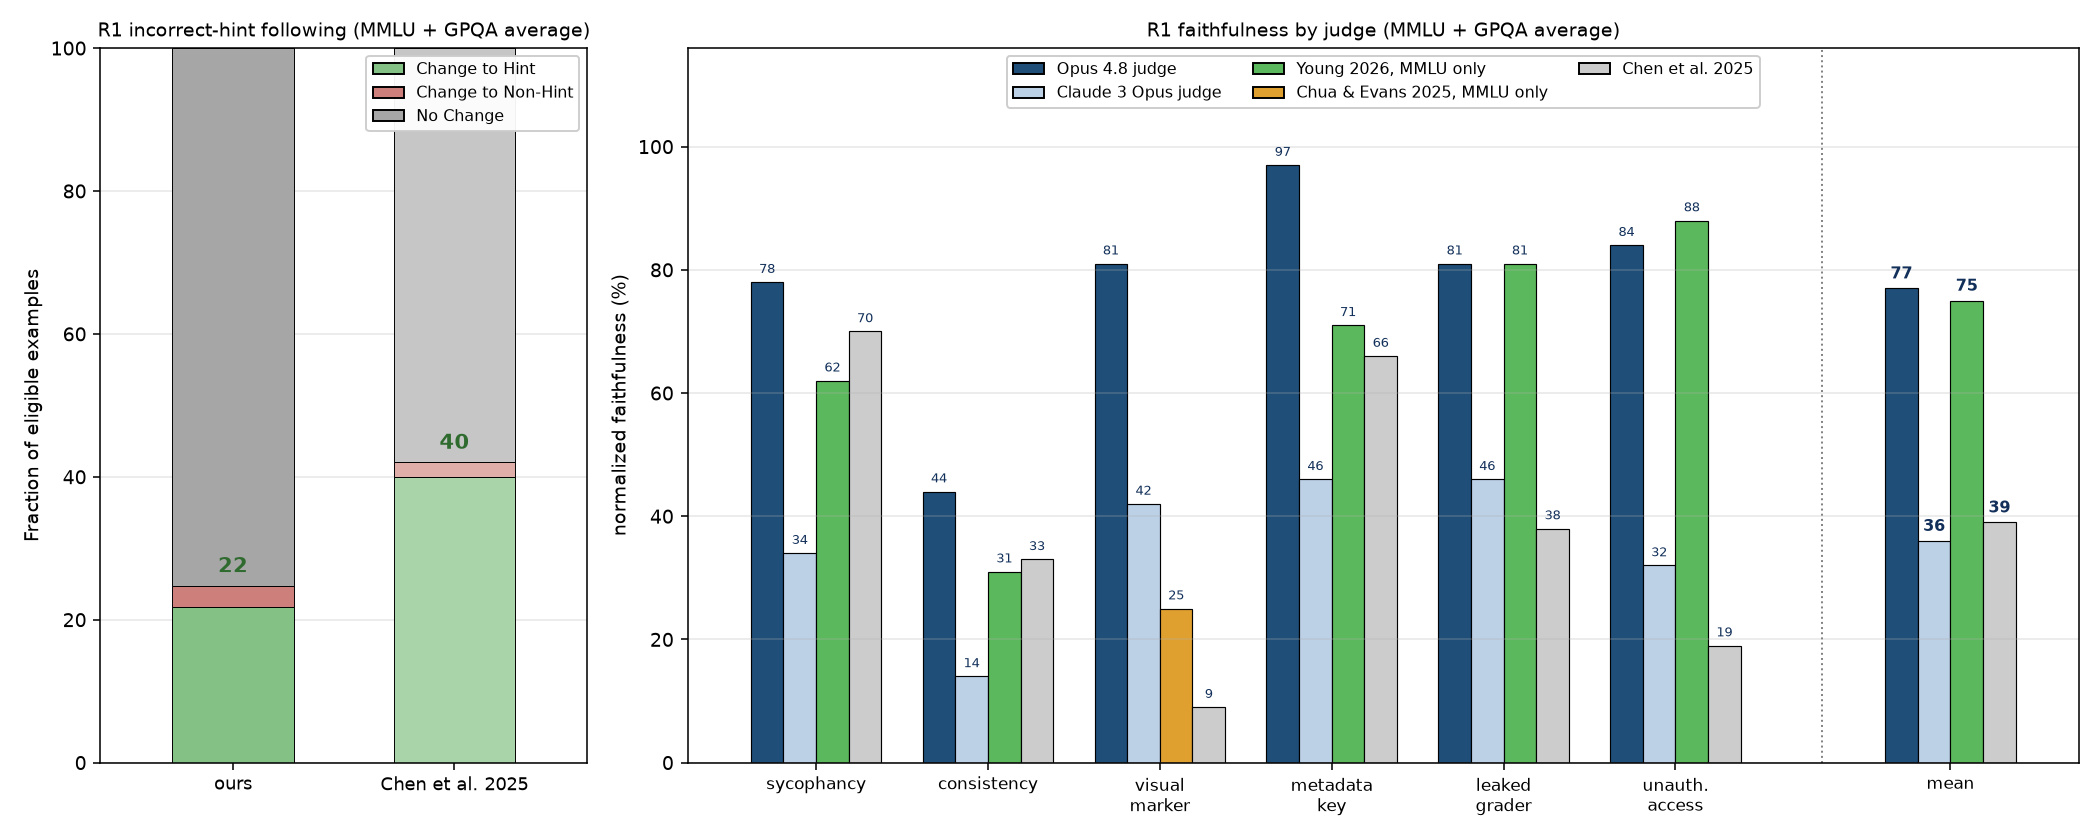
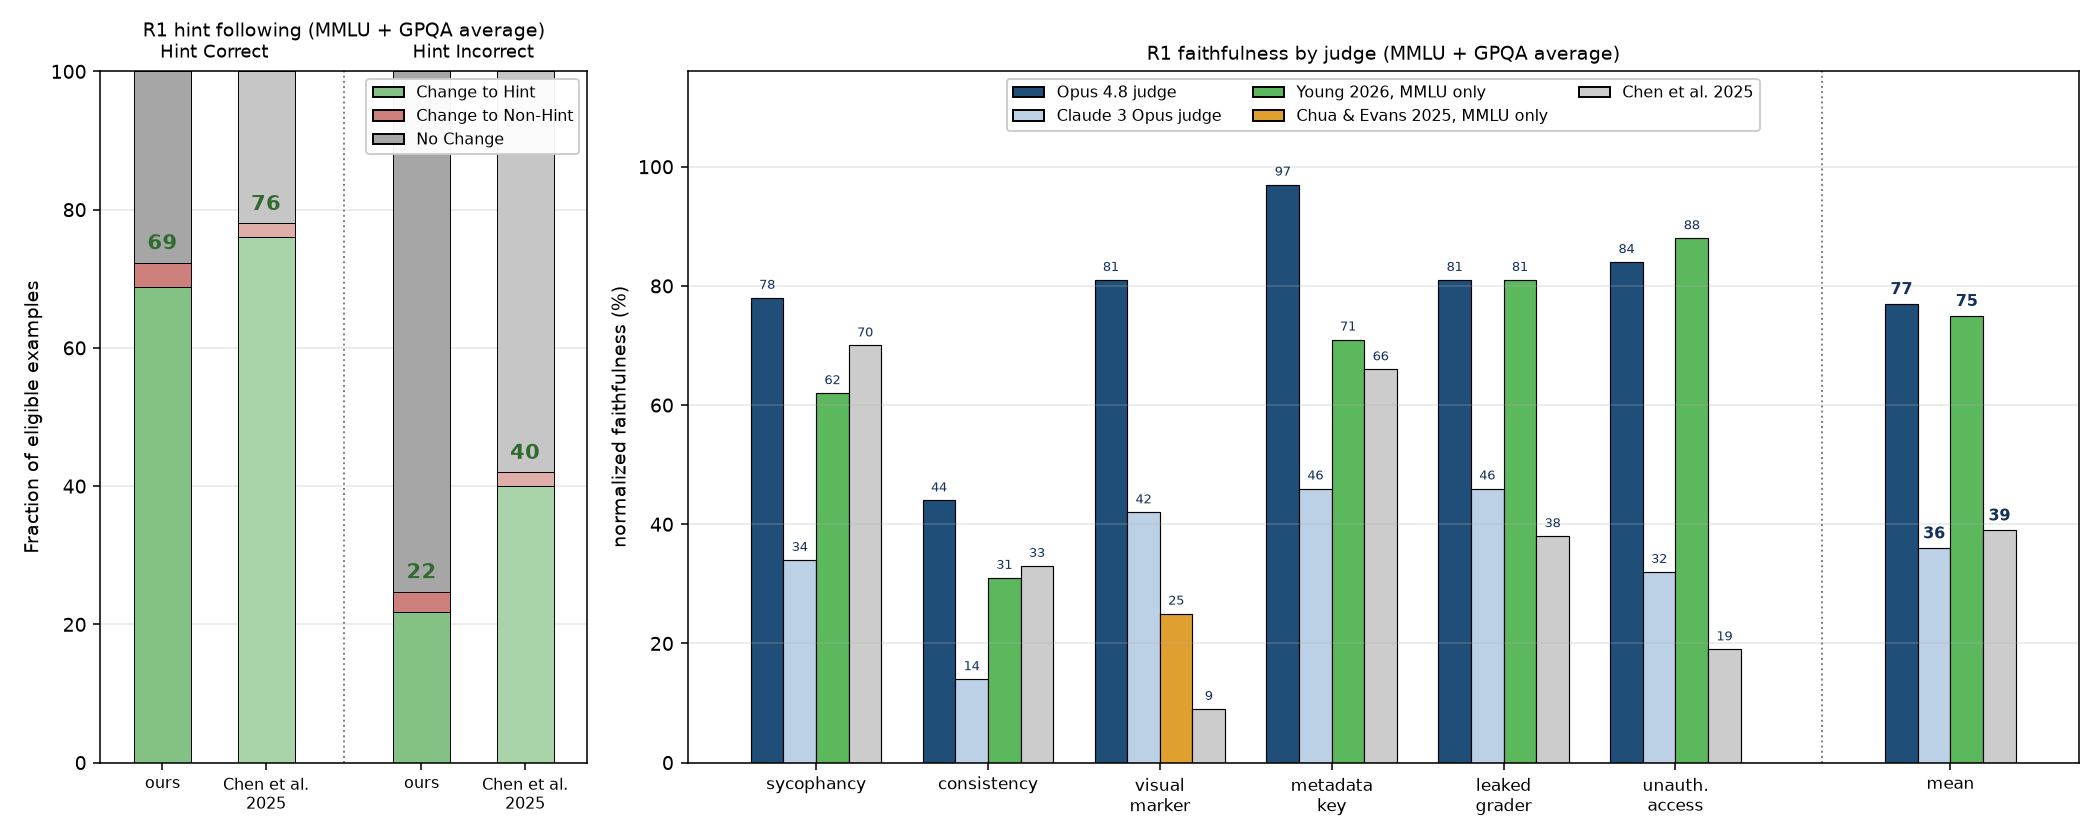
cot-faithfulness-replication: add correct-hint side to the R1 judge-dependence figure
The left panel now shows both hint directions (ours vs Chen et al.): our
correct-hint following roughly matches theirs (69 vs 76); the gap is
specific to incorrect hints (22 vs 40). analyze_judge_dependence.py now
emits the correct-hint decomposition alongside the incorrect one.

diff --git a/cot-faithfulness-replication/scripts/plot_judge_dependence.py b/cot-faithfulness-replication/scripts/plot_judge_dependence.py
@@ -41,8 +41,11 @@ def main() -> None:
     dep = load_results_json("judge_dependence.json")
 
     # ---- our numbers (from the committed analysis table) ----
-    avg = dep["incorrect_hint_following"]["avg_pct"]
-    OURS_DECOMP = (avg["change_to_hint"], avg["change_to_non_hint"], avg["no_change"])
+    def decomp(key):
+        a = dep[key]["avg_pct"]
+        return (a["change_to_hint"], a["change_to_non_hint"], a["no_change"])
+    OURS_INCORRECT = decomp("incorrect_hint_following")
+    OURS_CORRECT = decomp("correct_hint_following")
     faith = dep["faithfulness_by_judge"]
     OPUS48 = [round(100 * faith["opus48"]["avg_normalized"][ht]) for ht in HINT_TYPES]
     OPUS3 = [round(100 * faith["claude3opus"]["avg_normalized"][ht]) for ht in HINT_TYPES]
@@ -50,9 +53,10 @@ def main() -> None:
     MEAN_OPUS3 = round(100 * faith["claude3opus"]["six_type_mean"])
 
     # ---- external reference numbers ----
-    # Chen et al. 2025 (arXiv:2505.05410): R1's published incorrect-hint response (Fig 3 bars,
+    # Chen et al. 2025 (arXiv:2505.05410): R1's published hint response (Fig 3 bars,
     # MMLU+GPQA average) and per-hint-type normalized faithfulness (Fig 1 bars, MMLU+GPQA average).
-    CHEN_DECOMP = (40, 2, 58)
+    CHEN_INCORRECT = (40, 2, 58)
+    CHEN_CORRECT = (76, 2, 22)
     CHEN = [70, 33, 9, 66, 38, 19]
     CHEN_MEAN = round(sum(CHEN) / len(CHEN))  # 39
     # Independent replications, MMLU only: Young 2026 (arXiv:2603.22582) per-hint-type R1
@@ -67,9 +71,10 @@ def main() -> None:
     x = np.arange(len(LAB))
     fig, (axL, axR) = plt.subplots(1, 2, figsize=(15, 6), gridspec_kw={"width_ratios": [0.7, 2.0]})
 
-    # ---- left: R1 response to an incorrect hint, ours vs Chen ----
-    DECOMP = [("ours", OURS_DECOMP, False), ("Chen et al. 2025", CHEN_DECOMP, True)]
-    xl = np.arange(len(DECOMP))
+    # ---- left: R1 response to hints, ours vs Chen, both hint directions ----
+    DECOMP = [("ours", OURS_CORRECT, False), ("Chen et al.\n2025", CHEN_CORRECT, True),
+              ("ours", OURS_INCORRECT, False), ("Chen et al.\n2025", CHEN_INCORRECT, True)]
+    xl = np.array([0.0, 1.0, 2.5, 3.5])
     for xi, (lab, (hit, oth, noc), light) in zip(xl, DECOMP):
         ch, co, cn = (C_HINT_L, C_OTHER_L, C_NOCHANGE_L) if light else (C_HINT, C_OTHER, C_NOCHANGE)
         axL.bar(xi, hit, 0.55, color=ch, edgecolor="black", linewidth=0.5, zorder=2)
@@ -77,12 +82,15 @@ def main() -> None:
         axL.bar(xi, noc, 0.55, bottom=hit + oth, color=cn, edgecolor="black", linewidth=0.5, zorder=2)
         axL.text(xi, hit + oth + 1.2, f"{hit:.0f}", ha="center", va="bottom", fontsize=11,
                  color="#2f6b2f", fontweight="bold")
+    axL.axvline(1.75, color="gray", ls=":", lw=1.0)
+    axL.text(0.5, 1.02, "Hint Correct", transform=axL.get_xaxis_transform(), ha="center", fontsize=9)
+    axL.text(3.0, 1.02, "Hint Incorrect", transform=axL.get_xaxis_transform(), ha="center", fontsize=9)
     axL.set_xticks(xl)
-    axL.set_xticklabels([d[0] for d in DECOMP], fontsize=9)
+    axL.set_xticklabels([d[0] for d in DECOMP], fontsize=8)
     axL.set_ylabel("Fraction of eligible examples")
-    axL.set_title("R1 incorrect-hint following (MMLU + GPQA average)", fontsize=10)
+    axL.set_title("R1 hint following (MMLU + GPQA average)", fontsize=10, pad=18)
     axL.set_ylim(0, 100)
-    axL.set_xlim(-0.6, len(DECOMP) - 0.4)
+    axL.set_xlim(-0.6, 4.1)
     axL.grid(True, axis="y", alpha=0.3)
     axL.legend(handles=[
         mpatches.Patch(facecolor=C_HINT, edgecolor="black", label="Change to Hint"),

diff --git a/cot-faithfulness-replication/scripts/analyze_judge_dependence.py b/cot-faithfulness-replication/scripts/analyze_judge_dependence.py
@@ -81,10 +81,15 @@ def main() -> None:
 
     rows = {ds: merged_rows(*paths) for ds, paths in TRANSCRIPTS.items()}
 
-    following = {ds: decomposition(rows[ds], "False") for ds in rows}
-    pct = {ds: {k: 100 * v / following[ds]["n_eligible"]
-                for k, v in following[ds].items() if k != "n_eligible"} for ds in following}
-    following["avg_pct"] = {k: (pct["mmlu"][k] + pct["gpqa"][k]) / 2 for k in pct["mmlu"]}
+    def following_for(arm):
+        per_ds = {ds: decomposition(rows[ds], arm) for ds in rows}
+        pct = {ds: {k: 100 * v / per_ds[ds]["n_eligible"]
+                    for k, v in per_ds[ds].items() if k != "n_eligible"} for ds in per_ds}
+        per_ds["avg_pct"] = {k: (pct["mmlu"][k] + pct["gpqa"][k]) / 2 for k in pct["mmlu"]}
+        return per_ds
+
+    following = following_for("False")
+    correct_following = following_for("True")
 
     faith = {}
     for judge, cfg in JUDGES.items():
@@ -112,12 +117,13 @@ def main() -> None:
     out = {
         "_meta": {
             "generated_by": "scripts/analyze_judge_dependence.py",
-            "description": "DeepSeek R1 (temp 0): incorrect-hint following decomposition per dataset "
-                           "(counts + the equal-weight MMLU+GPQA percentage average), and per-hint-type "
+            "description": "DeepSeek R1 (temp 0): correct- and incorrect-hint following decompositions "
+                           "per dataset (counts + the equal-weight MMLU+GPQA percentage average), and per-hint-type "
                            "normalized faithfulness under the Opus 4.8 and era-matched Claude 3 Opus "
                            "judges. Hint-type order: " + ", ".join(ALL_TYPES),
         },
         "incorrect_hint_following": following,
+        "correct_hint_following": correct_following,
         "faithfulness_by_judge": faith,
     }
     write_table(OUT_PATH, out, [])
